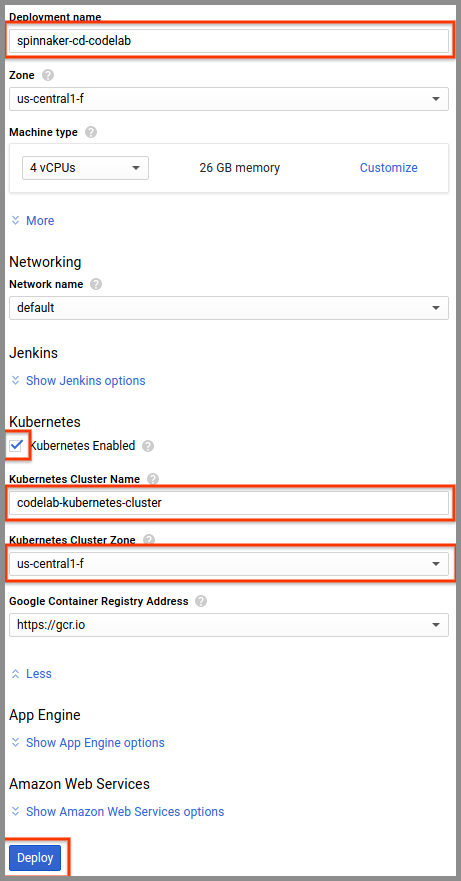
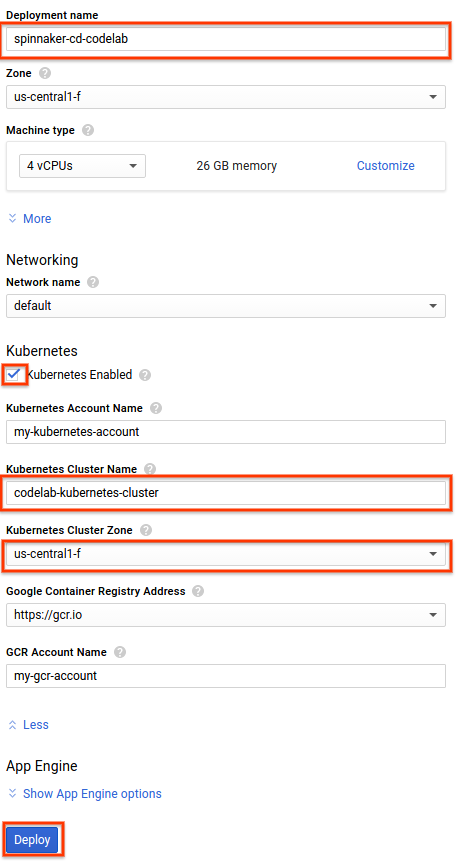
docs(guides): GKE codelab update on required APIs (#273)

diff --git a/guides/tutorials/codelabs/gcp-kubernetes-source-to-prod/index.md b/guides/tutorials/codelabs/gcp-kubernetes-source-to-prod/index.md
@@ -37,12 +37,7 @@ If you don't already have gcloud installed, [install gcloud](https://cloud.googl
 
 ### Enable APIs
 
-* Enable the [Google Cloud Container Builder API](https://console.cloud.google.com/apis/api/cloudbuild.googleapis.com/overview)
-in the Google Cloud Console.
-
-* Enable the [Google Container Registry API](https://pantheon.corp.google.com/apis/api/containerregistry.googleapis.com/overview).
-
-* Enable the [Google Identity and Access Management (IAM) API](https://console.cloud.google.com/apis/api/iam.googleapis.com/overview).
+Verify that the [Service Management API](https://console.cloud.google.com/apis/api/servicemanagement.googleapis.com/overview) is enabled.
 
 ### Create a Kubernetes cluster (GKE)
 
@@ -59,7 +54,7 @@ in the Google Cloud Console.
 * Navigate to the [Spinnaker Launcher offering](https://console.cloud.google.com/launcher/details/click-to-deploy-images/spinnaker?q=spinnaker)
 and click the *Launch on Compute Engine* button.
 
-![Create Spinnaker instance](images/005_launcher_form.png)
+| ![Create Spinnaker instance](images/005_launcher_form.png) |
 
 * Set the *Deployment name* "spinnaker-cd-codelab"
 * Select "us-central1-f" in the *Zone* drop down list.
